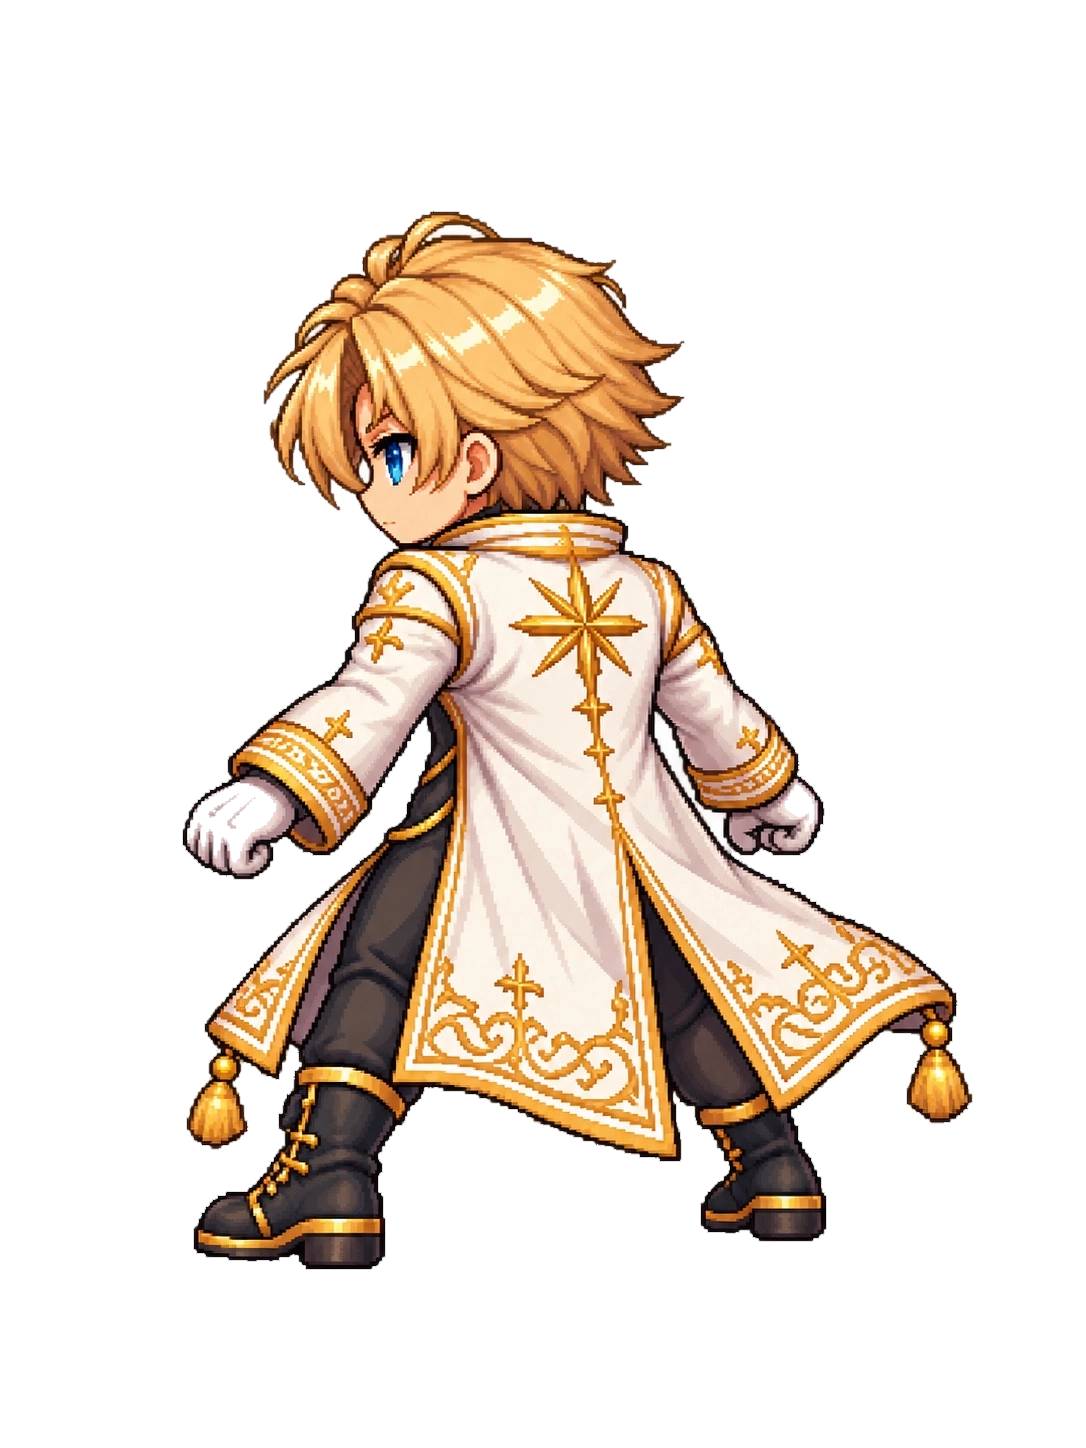
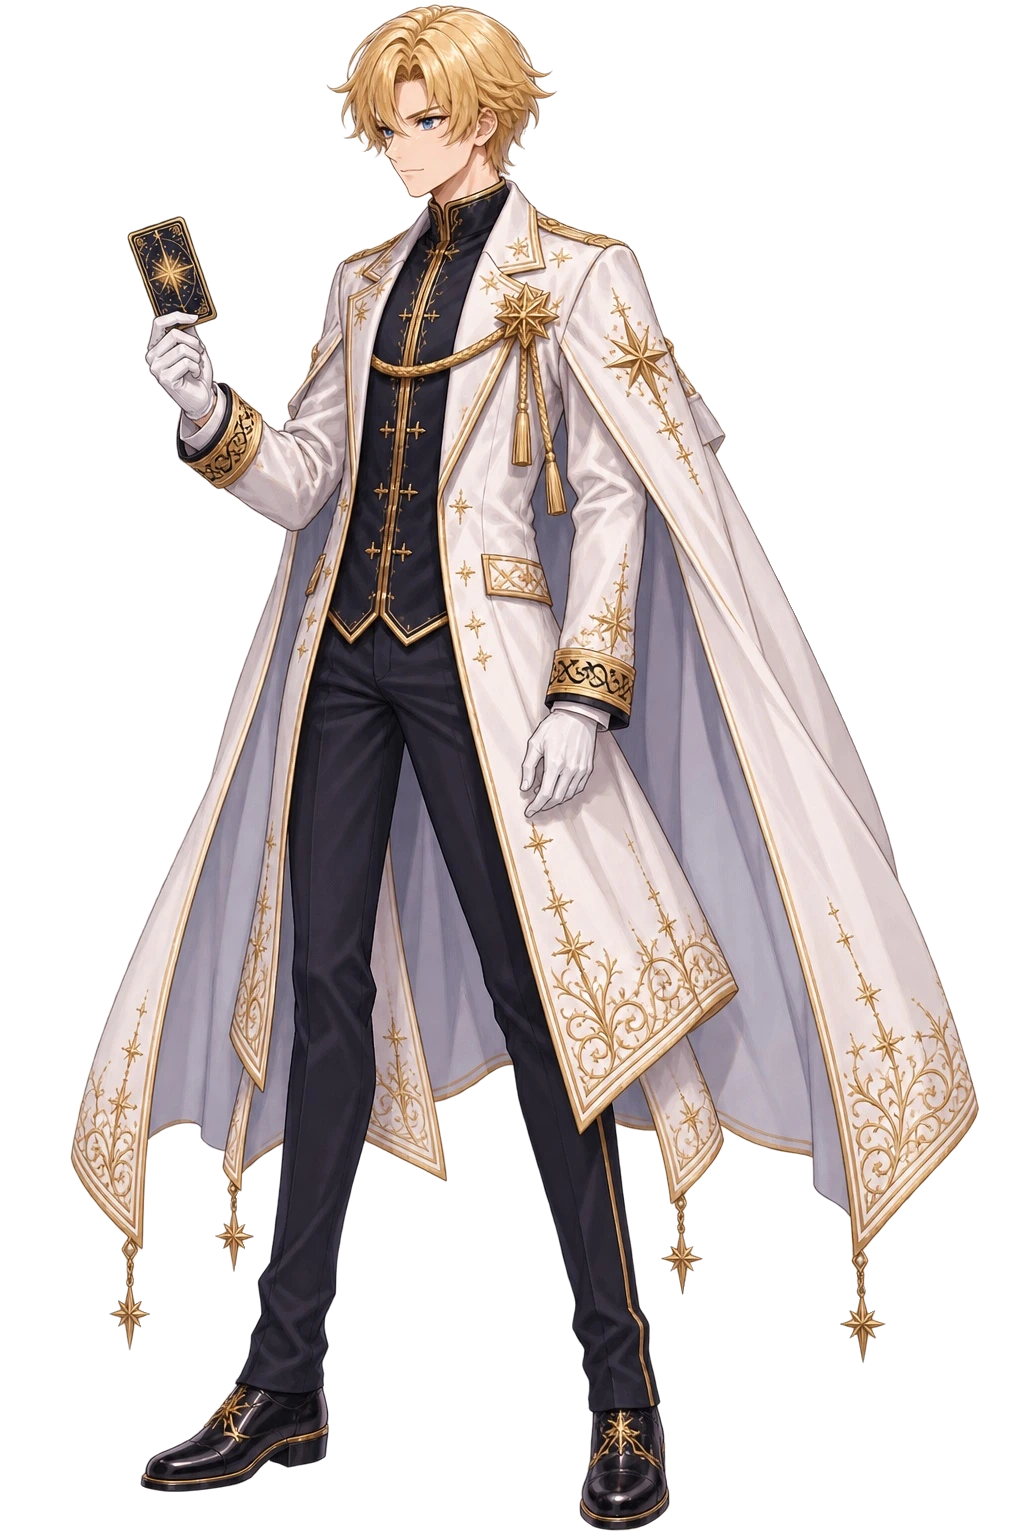
Use the new Shion and Shioriel art in the Caritas battle preview

diff --git a/caritas-battle-camera.css b/caritas-battle-camera.css
@@ -61,14 +61,14 @@
  left:calc(var(--cb-camera-unit)*1.28 - var(--cb-world-height)*.309)!important;
  right:auto!important;top:auto!important;bottom:6%!important;
  width:calc(var(--cb-world-height)*.618)!important;height:84%!important;
- background:url('./assets/battle/camera/shioriel.webp') center bottom / contain no-repeat;
+ background:url('./assets/battle/character/shioriel.webp') center bottom / contain no-repeat;
  image-rendering:auto;z-index:8;
 }
 #game-shell #caritas-event[data-camera-layout="a02"] .cb-battle-world>.cb-shion-sprite{
  left:calc(var(--cb-camera-unit)*1.60 - var(--cb-world-height)*.223)!important;
  right:auto!important;top:auto!important;bottom:6%!important;
  width:calc(var(--cb-world-height)*.446)!important;height:82%!important;
- background:url('./assets/battle/camera/shion.webp') center bottom / contain no-repeat;
+ background:url('./assets/battle/character/shion.webp') center bottom / contain no-repeat;
  image-rendering:auto;z-index:9;
 }
 #game-shell #caritas-event[data-camera-layout="a02"] .cb-battle-world>:is(.cb-beast,.cb-abyss,.cb-release){
@@ -244,7 +244,7 @@
  right:auto!important;top:auto!important;bottom:13%!important;
  width:calc(var(--cb-world-height)*.24)!important;
  height:40%!important;min-width:0!important;min-height:0!important;
- background-image:url('./assets/battle/camera/shioriel.webp')!important;
+ background-image:url('./assets/battle/character/shioriel.webp')!important;
  background-position:center bottom!important;
  background-size:contain!important;background-repeat:no-repeat!important;
  -webkit-mask-image:none!important;mask-image:none!important;
@@ -257,7 +257,7 @@
  right:auto!important;top:auto!important;bottom:13%!important;
  width:calc(var(--cb-world-height)*.20)!important;
  height:37%!important;min-width:0!important;min-height:0!important;
- background-image:url('./assets/battle/camera/shion.webp')!important;
+ background-image:url('./assets/battle/character/shion.webp')!important;
  background-position:center bottom!important;
  background-size:contain!important;background-repeat:no-repeat!important;
  -webkit-mask-image:none!important;mask-image:none!important;
@@ -274,7 +274,7 @@
  bottom:7%!important;
  width:calc(var(--cb-world-height)*.415)!important;
  height:61.5%!important;
- background-image:url('https://raw.githubusercontent.com/reverse-shion/tarot-breaker-game/a107c393f74d06017b201e8f89fd2f8c836d5fbd/assets/battle/character/shioriel.webp')!important;
+ background-image:url('./assets/battle/character/shioriel.webp')!important;
 }
 #game-shell #caritas-event[data-camera-layout="a02"] .cb-battle-world>.cb-shion-sprite{
  left:calc(var(--cb-camera-unit)*1.57 - var(--cb-world-height)*.14)!important;
@@ -813,10 +813,10 @@
 }
 #game-shell #caritas-event[data-camera-layout="a02"][data-rules="tactical-v1"] .cb-battle-world>.cb-angel{
   animation-delay:-1.35s!important;
-  --cb-actor-art:url('https://raw.githubusercontent.com/reverse-shion/tarot-breaker-game/a107c393f74d06017b201e8f89fd2f8c836d5fbd/assets/battle/character/shioriel.webp');
+  --cb-actor-art:url('./assets/battle/character/shioriel.webp');
 }
 #game-shell #caritas-event[data-camera-layout="a02"][data-rules="tactical-v1"] .cb-battle-world>.cb-shion-sprite{
-  --cb-actor-art:url('./assets/battle/camera/shion.webp');
+  --cb-actor-art:url('./assets/battle/character/shion.webp');
 }
 @keyframes cb-actor-idle-breathe{
   0%,100%{transform:translate3d(0,0,0)}

diff --git a/hoshisuna-main.html b/hoshisuna-main.html
@@ -19,7 +19,7 @@
     <link rel="stylesheet" href="./dialogue.css?v=20260920-dialogue-ui-v3" />
     <link rel="stylesheet" href="./shared-dialogue.css?v=20260920-dialogue-ui-v3" />
     <link rel="stylesheet" href="./star-gate-interaction.css?v=main-official-choice" />
-    <link rel="stylesheet" href="./caritas-battle-event.css?v=main-dialogue-choice-v17&reactions=1&art=20261104-shion-scale&ux=20261108d" />
+    <link rel="stylesheet" href="./caritas-battle-event.css?v=main-dialogue-choice-v17&reactions=1&art=20261104-shion-scale&portraits=20261115&ux=20261108d" />
     <link rel="stylesheet" href="./caritas-resonance-ux.css?v=ux-20261103-reading-clarity-v20" />
   <link rel="stylesheet" href="./hoshisuna-battle-transition.css?v=abyss-map-first-v3" />
     <!-- These existing styles must settle before the first scene frame. -->
@@ -173,10 +173,10 @@
     <script src="./caritas-special-state.js?v=15&affinity=validate-v1" defer></script>
     <script src="./caritas-battle-presentation.js?v=reactions-1" defer></script>
     <script src="./hoshisuna-caritas-outro.js?v=map-farewell-three-acts-v2" defer></script>
-    <link rel="stylesheet" href="./caritas-battle-camera.css?v=a16-finisher-affinity&choice-fit=1&relief=1&return=2&voice=1" />
+    <link rel="stylesheet" href="./caritas-battle-camera.css?v=a16-finisher-affinity&choice-fit=1&relief=1&return=2&voice=1&portraits=20261115" />
     <link rel="stylesheet" href="./caritas-actor-position-editor.css?v=1" />
     <script src="./caritas-battle-camera.js?v=a08-counter-hit-frame&return=2" defer></script>
-    <script src="./caritas-actor-position-editor.js?v=2" defer></script>
+    <script src="./caritas-actor-position-editor.js?v=3" defer></script>
     <script src="./caritas-battle-event.js?v=caritas-field-bgm-early-v25&tactical=3&victory=1&camera=a02-1&ux=finisher-affinity-v1&relief=1&voice=1" defer></script>
   </body>
 </html>

diff --git a/caritas-actor-position-editor.js b/caritas-actor-position-editor.js
@@ -4,7 +4,7 @@
  'use strict';
  const qs=new URLSearchParams(location.search);
  if(qs.get('editor')!=='actors'||qs.get('camera')!=='a02'||qs.get('dev')!=='hoshisuna')return;
- const NEW_SHIORIEL='https://raw.githubusercontent.com/reverse-shion/tarot-breaker-game/a107c393f74d06017b201e8f89fd2f8c836d5fbd/assets/battle/character/shioriel.webp';
+ const NEW_SHIORIEL='./assets/battle/character/shioriel.webp';
  const KEY='tb.caritas.actor-editor.a02.v1';
  const defaults={shioriel:{x:1.35,y:7,h:61.5,w:41.5},shion:{x:1.57,y:8.5,h:51.5,w:28}};
  const clone=o=>JSON.parse(JSON.stringify(o));
